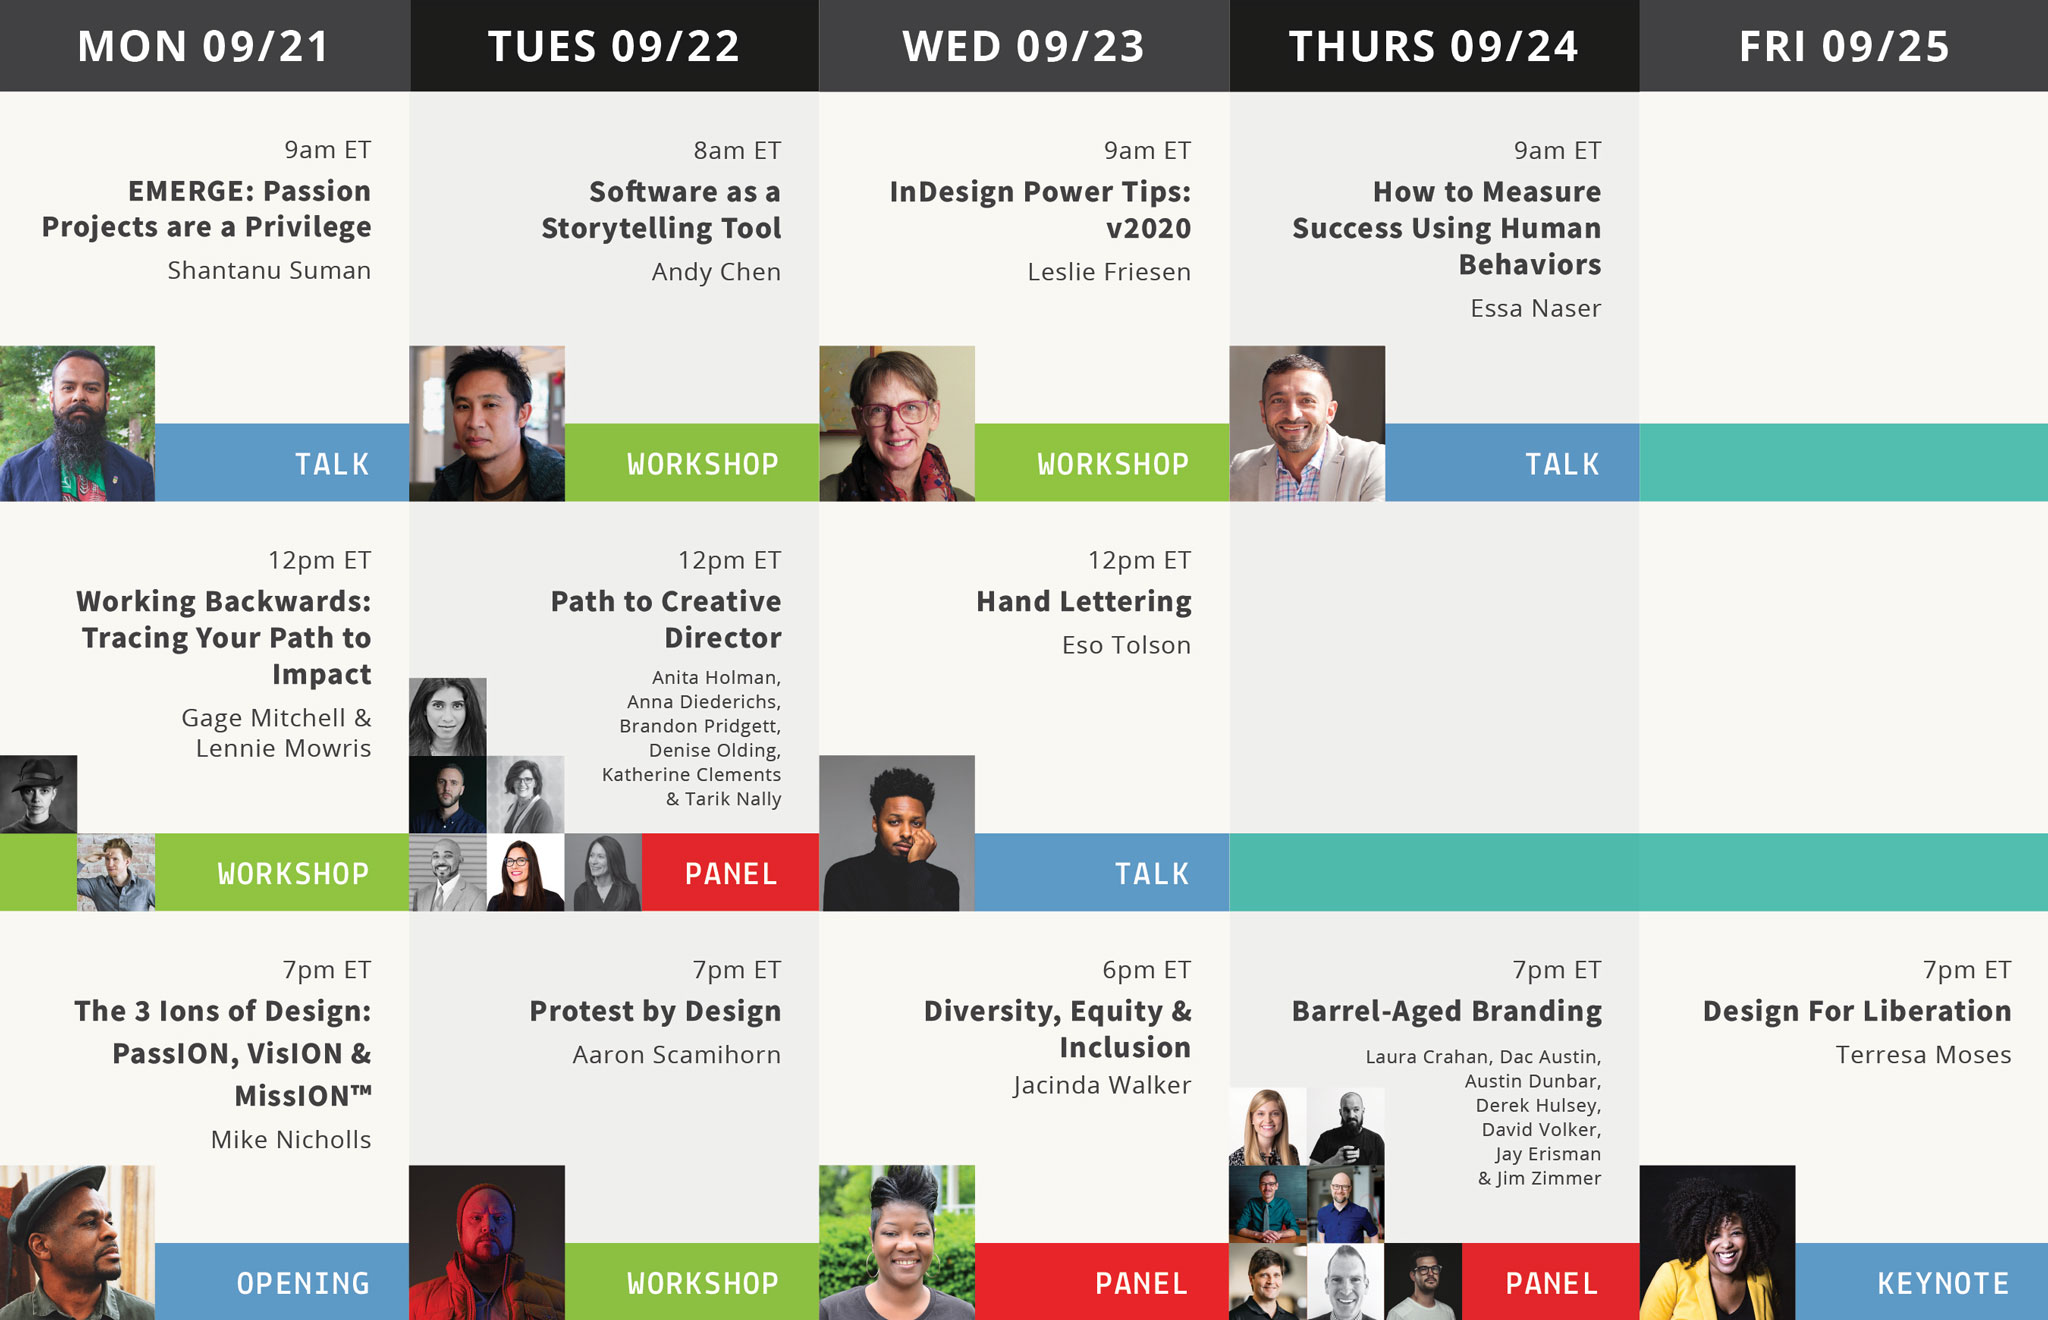
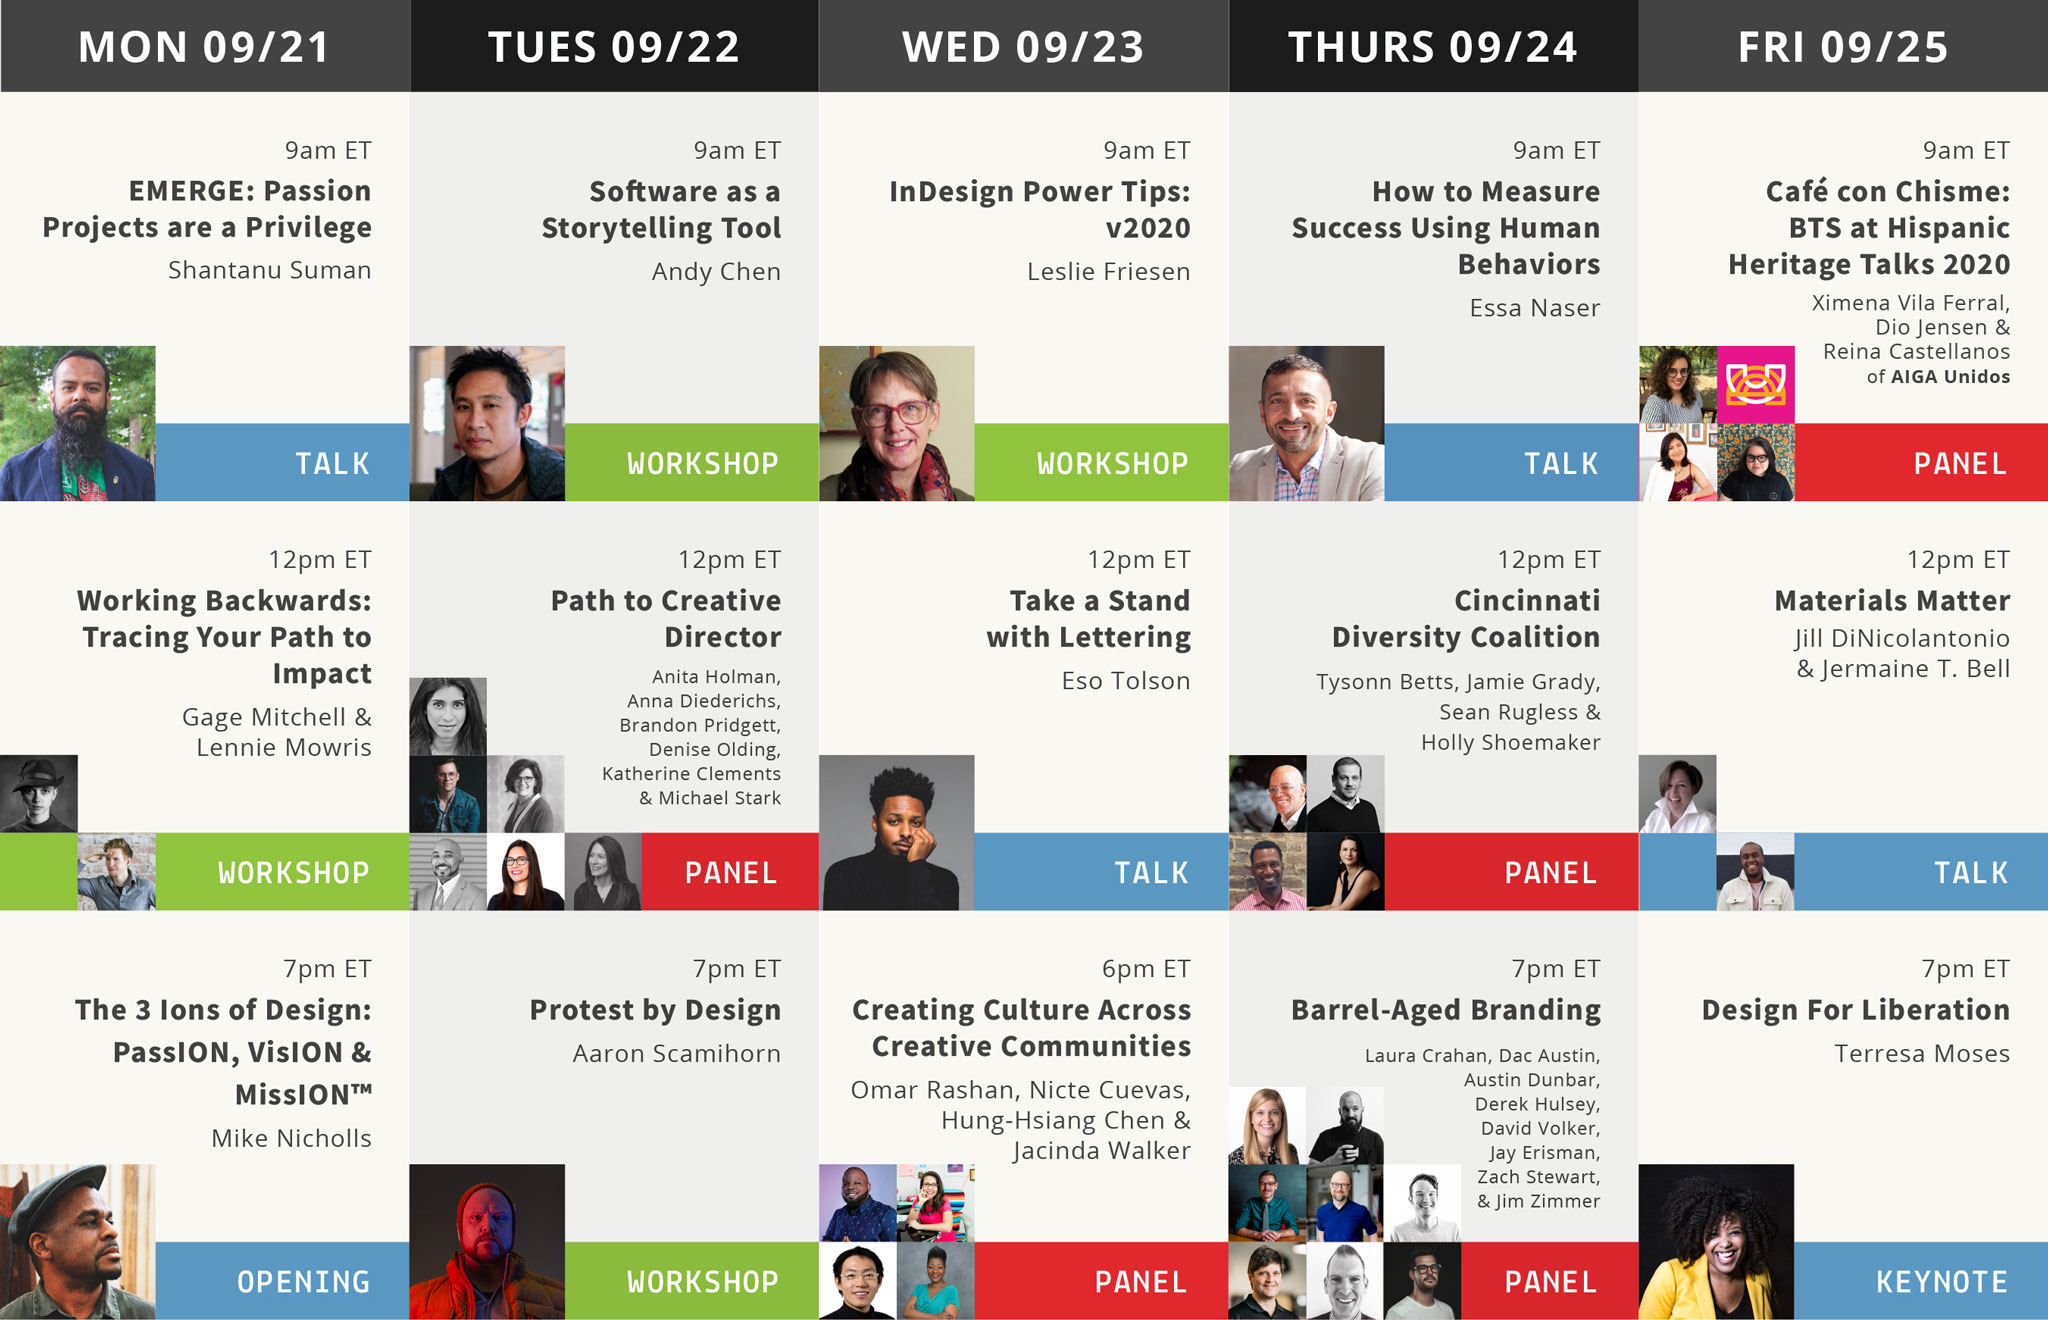
Add updated Events graphic

diff --git a/pages/events/index.vue b/pages/events/index.vue
@@ -7,11 +7,11 @@
     </h1>
     <section class="px-6 py-4 lg:py-10">
       <div class="lg:max-w-screen-lg mx-auto">
-        <!-- <img
+        <img
           src="~/assets/images/2020-MWDW-Week-Events.jpg"
           alt="Midwest Design Week Calendar"
           class="mb-4 lg:mb-8"
-        /> -->
+        />
         <div class="flex items-center mb-2 lg:mb-4">
           <h2 class="lg:text-3xl font-mono font-normal">September 2020</h2>
           <button
